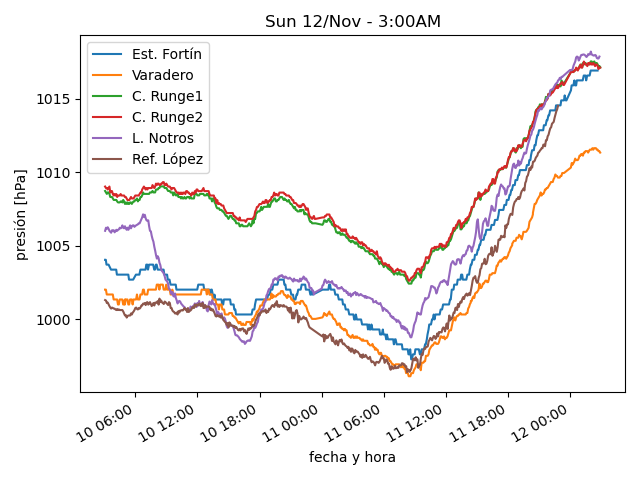
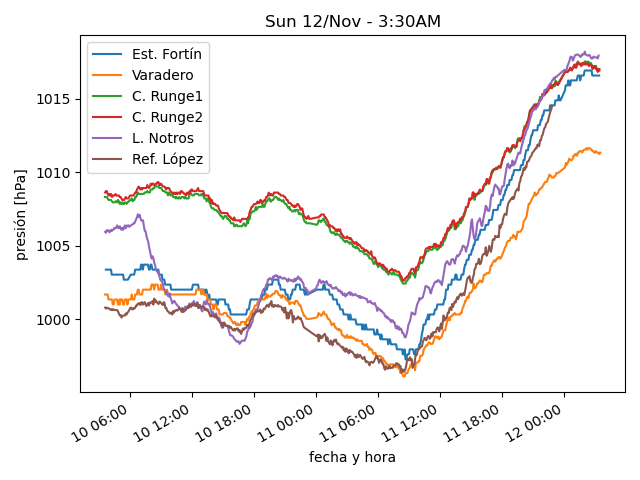
actualiza datos

diff --git a/estaciones/estacion4.html b/estaciones/estacion4.html
@@ -18,32 +18,32 @@
     </tr>
     <tr>
      <td class="stats_data">
-      2:54AM
+      3:24AM
      </td>
     </tr>
     <tr>
      <td class="stats_data">
-      -0.8⁰C
+      -0.4⁰C
      </td>
     </tr>
     <tr>
      <td class="stats_data">
-      -1.9⁰C
+      -1.7⁰C
      </td>
     </tr>
     <tr>
      <td class="stats_data">
-      92.7%
+      91.1%
      </td>
     </tr>
     <tr>
      <td class="stats_data">
-      1014.12hPa
+      1013.92hPa
      </td>
     </tr>
     <tr>
      <td class="stats_data">
-      1.0/1.8 km/hr SW
+      0.5/1.6 km/hr SW
      </td>
     </tr>
     <tr>

diff --git a/estaciones/estacion1.html b/estaciones/estacion1.html
@@ -18,7 +18,7 @@
     </tr>
     <tr>
      <td class="stats_data">
-      2:39AM
+      3:23AM
      </td>
     </tr>
     <tr>
@@ -28,22 +28,22 @@
     </tr>
     <tr>
      <td class="stats_data">
-      -3.8⁰C
+      -4.0⁰C
      </td>
     </tr>
     <tr>
      <td class="stats_data">
-      74.0%
+      73.0%
      </td>
     </tr>
     <tr>
      <td class="stats_data">
-      1016.93hPa
+      1016.59hPa
      </td>
     </tr>
     <tr>
      <td class="stats_data">
-      13.4/18.8 km/hr WSW
+      11.3/33.0 km/hr WSW
      </td>
     </tr>
     <tr>

diff --git a/estaciones/estacion3.html b/estaciones/estacion3.html
@@ -18,12 +18,12 @@
     </tr>
     <tr>
      <td class="stats_data">
-      2:54AM
+      3:24AM
      </td>
     </tr>
     <tr>
      <td class="stats_data">
-      -0.8⁰C
+      -0.4⁰C
      </td>
     </tr>
     <tr>
@@ -33,17 +33,17 @@
     </tr>
     <tr>
      <td class="stats_data">
-      94.6%
+      92.9%
      </td>
     </tr>
     <tr>
      <td class="stats_data">
-      1005.42hPa
+      1005.32hPa
      </td>
     </tr>
     <tr>
      <td class="stats_data">
-      4.1/6.1 km/hr W
+      3.3/4.9 km/hr SW
      </td>
     </tr>
     <tr>

diff --git a/estaciones/estacion2.html b/estaciones/estacion2.html
@@ -18,22 +18,22 @@
     </tr>
     <tr>
      <td class="stats_data">
-      2:54AM
+      3:29AM
      </td>
     </tr>
     <tr>
      <td class="stats_data">
-      2.4⁰C
+      2.8⁰C
      </td>
     </tr>
     <tr>
      <td class="stats_data">
-      0.3⁰C
+      0.2⁰C
      </td>
     </tr>
     <tr>
      <td class="stats_data">
-      86.4%
+      82.8%
      </td>
     </tr>
     <tr>
@@ -43,7 +43,7 @@
     </tr>
     <tr>
      <td class="stats_data">
-      29.8/37.4 km/hr NW
+      27.6/35.0 km/hr NW
      </td>
     </tr>
     <tr>

diff --git a/estaciones/estacion5.html b/estaciones/estacion5.html
@@ -18,17 +18,17 @@
     </tr>
     <tr>
      <td class="stats_data">
-      2:50AM
+      3:20AM
      </td>
     </tr>
     <tr>
      <td class="stats_data">
-      -0.7⁰C
+      -0.5⁰C
      </td>
     </tr>
     <tr>
      <td class="stats_data">
-      -2.2⁰C
+      -2.1⁰C
      </td>
     </tr>
     <tr>
@@ -38,7 +38,7 @@
     </tr>
     <tr>
      <td class="stats_data">
-      1020.45hPa
+      1020.52hPa
      </td>
     </tr>
     <tr>
